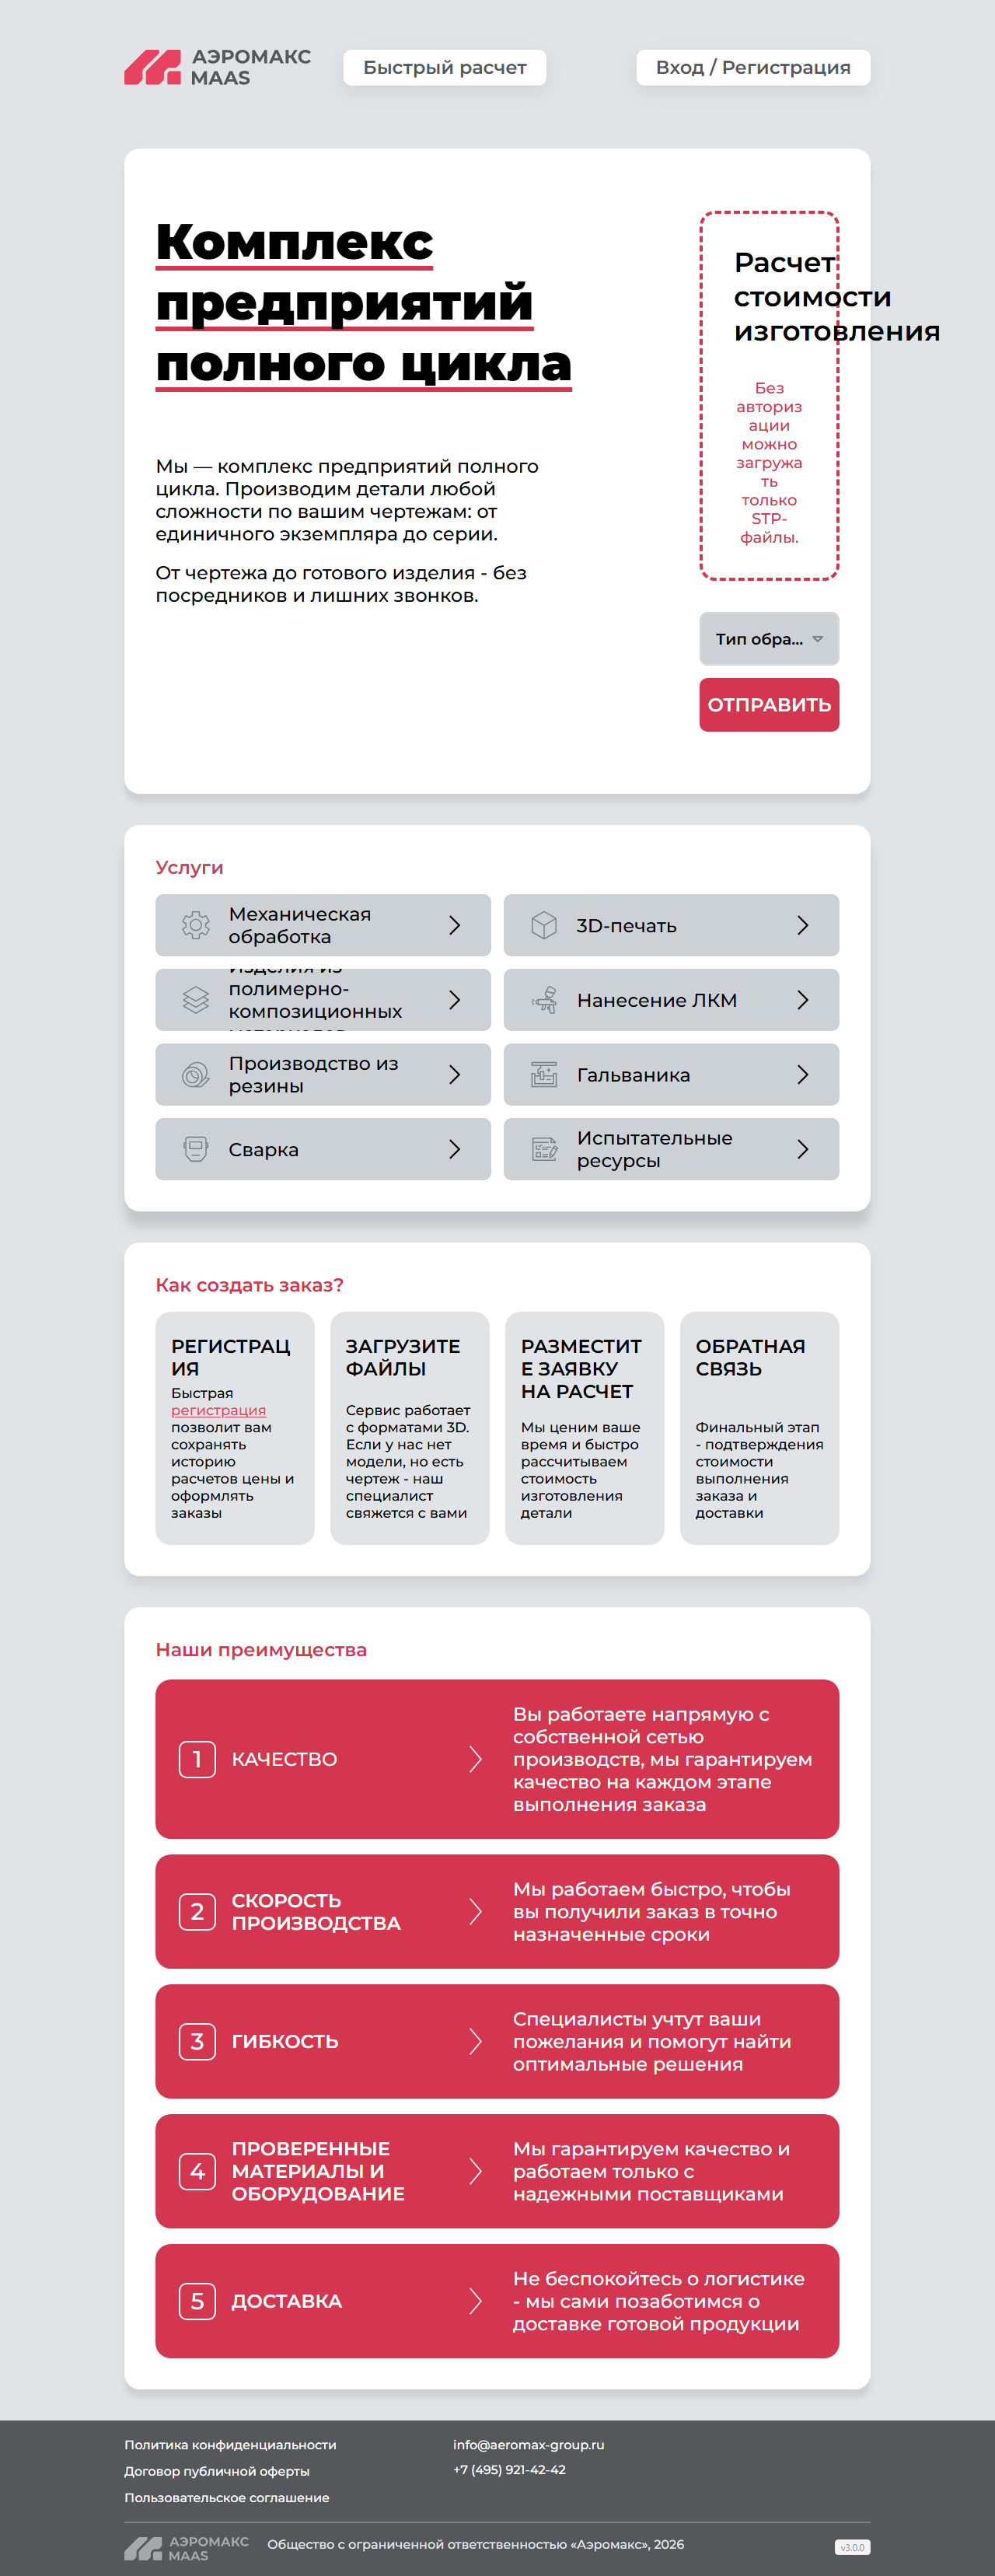
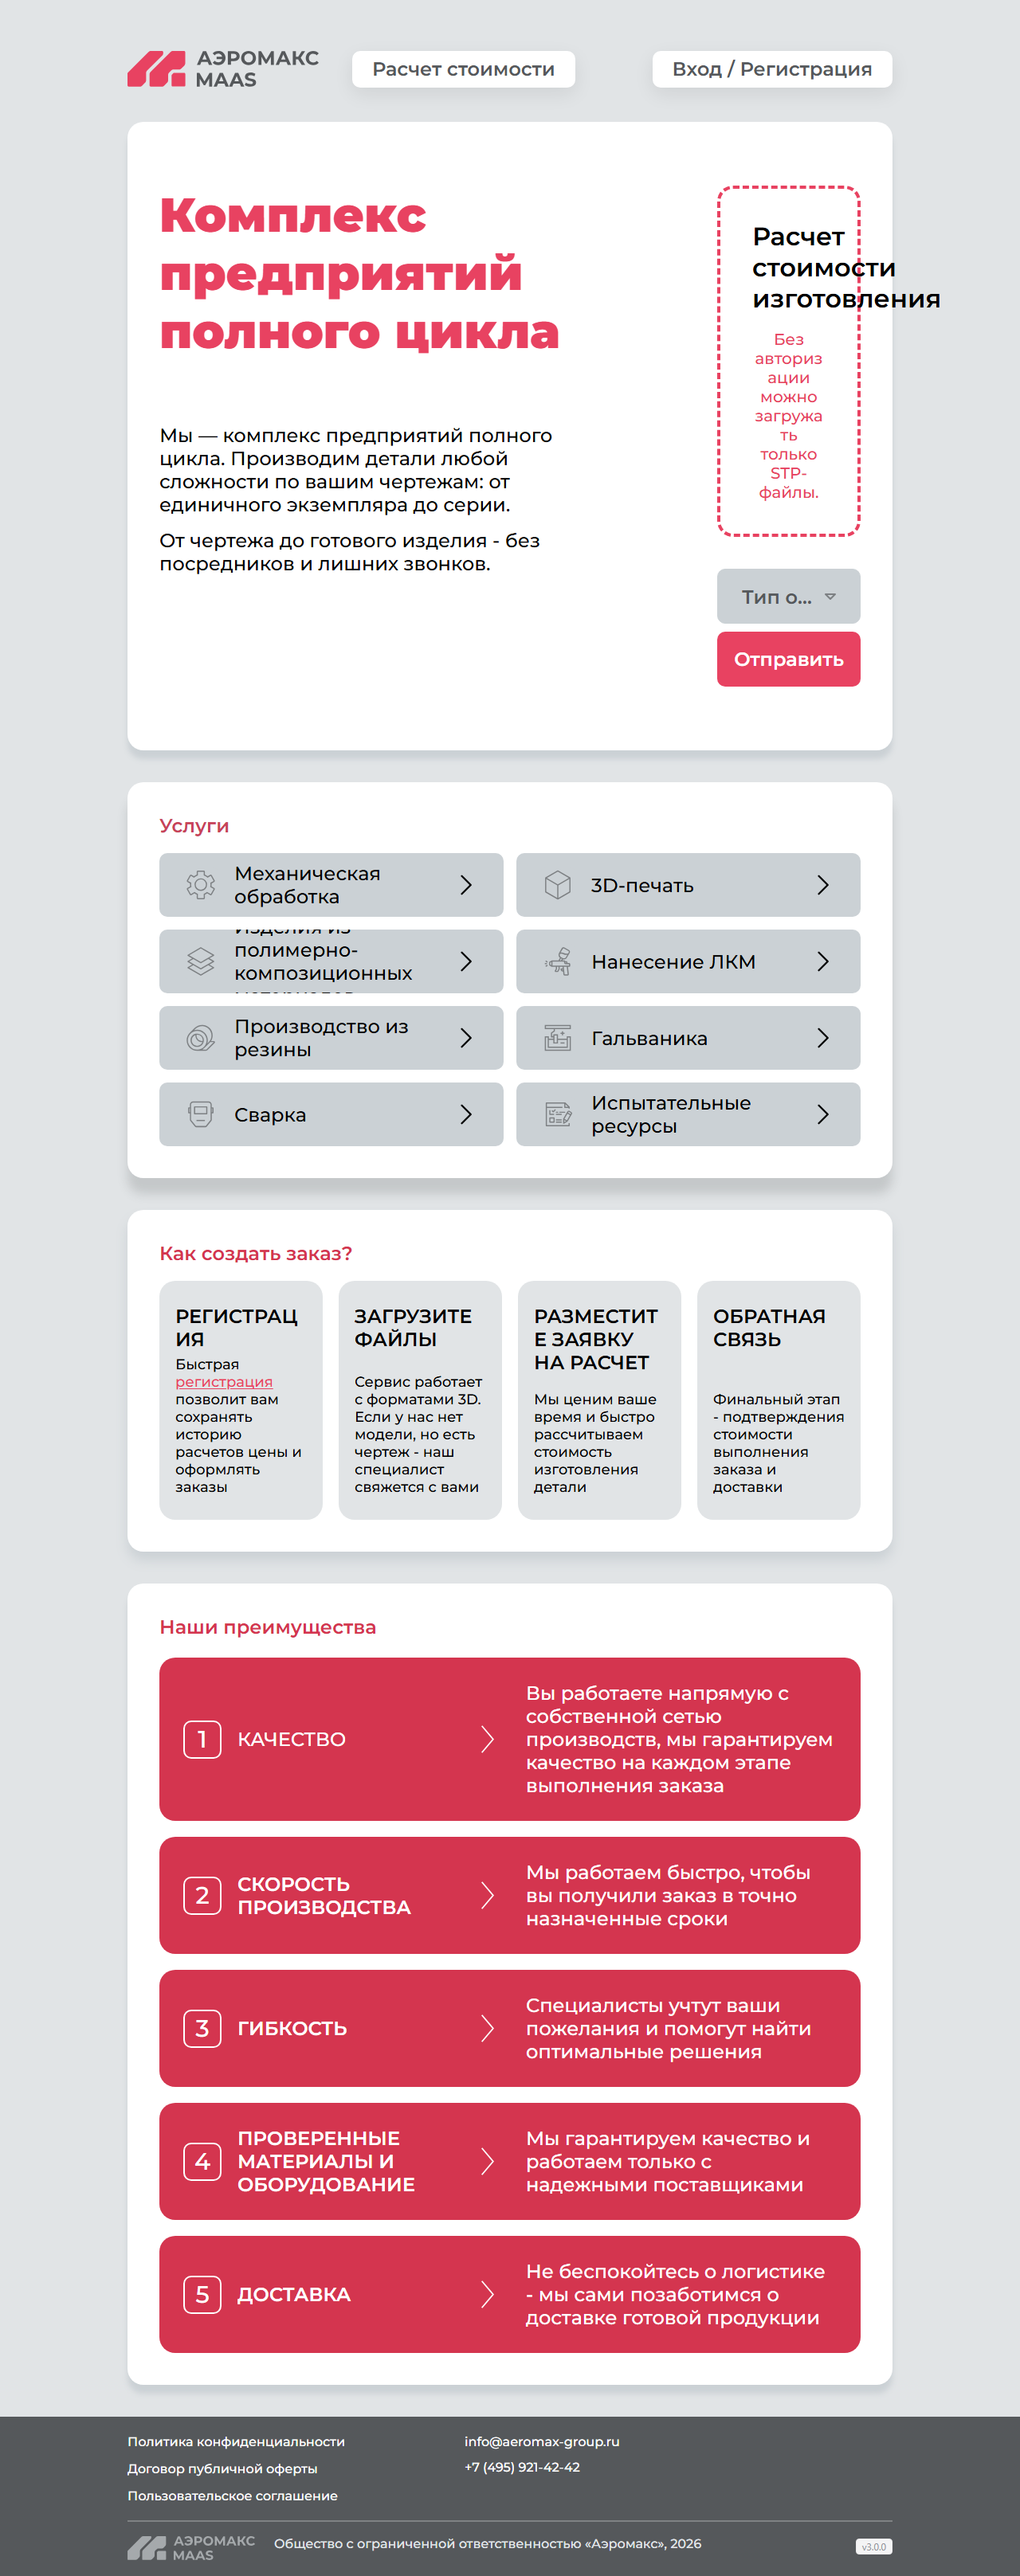
Update build info and modify HomePage layout for design consistency
- Updated build-info.json with the latest build date and git hash for accurate tracking.
- Adjusted Figma link in HomePage.vue to reflect the correct design reference.
- Modified CSS styles in HomePage.vue to ensure consistent margins and padding, enhancing the overall layout and visual appeal.

These changes improve the accuracy of build information and contribute to a more cohesive design in the HomePage component.

Changed region(s): [[0.125, 0.0, 0.9375, 0.9994], [0.8438, 0.9682, 0.875, 0.9994], [0.6562, 0.9682, 0.6875, 0.9994]]

diff --git a/src/pages/HomePage.vue b/src/pages/HomePage.vue
@@ -23,7 +23,7 @@ onMounted(() => {
 </script>
 
 <template>
-  <!-- https://www.figma.com/design/HyoggbbVUgCqJp5UR7EU8T/MaaS-DEV--Copy-?node-id=3356-572 -->
+  <!-- https://www.figma.com/design/HyoggbbVUgCqJp5UR7EU8T/MaaS-DEV--Copy-?node-id=3248-1490 -->
   <div class="home-page" :class="{ 'home-page--mobile': isMobile }">
     <el-row>
       <el-col :offset="isMobile ? 0 : 3" :span="isMobile ? 24 : 18">
@@ -49,18 +49,15 @@ onMounted(() => {
   gap: 40px;
   position: relative;
   z-index: 2;
+  padding-top: 40px;
   padding-bottom: 40px;
 }
 
-.home-page__sections :deep(.uslugi-section2.section-basic),
+.home-page__sections :deep(.calc-section),
+.home-page__sections :deep(.uslugi-section2),
 .home-page__sections :deep(.home-milestones),
 .home-page__sections :deep(.home-advantages) {
-  margin-top: 0 !important;
-  margin-bottom: 0 !important;
-}
-
-.home-page__sections :deep(.calc-section) {
-  margin-bottom: 0 !important;
+  margin: 0 !important;
 }
 
 @media (max-width: 767px) {